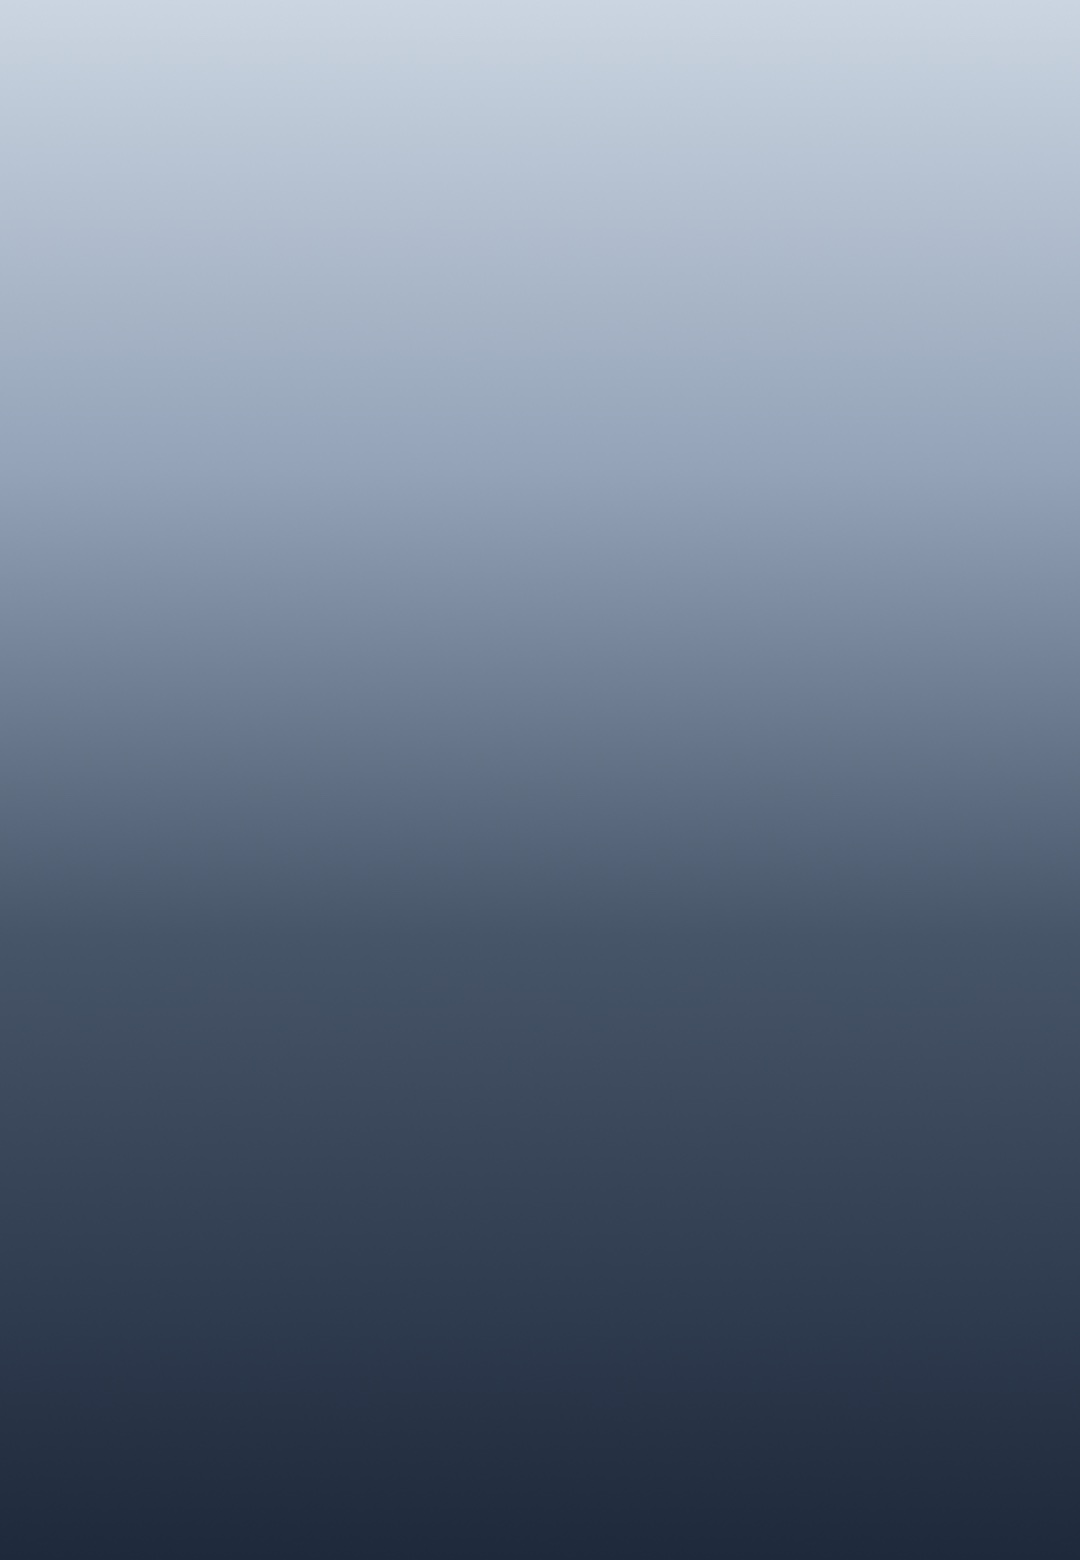
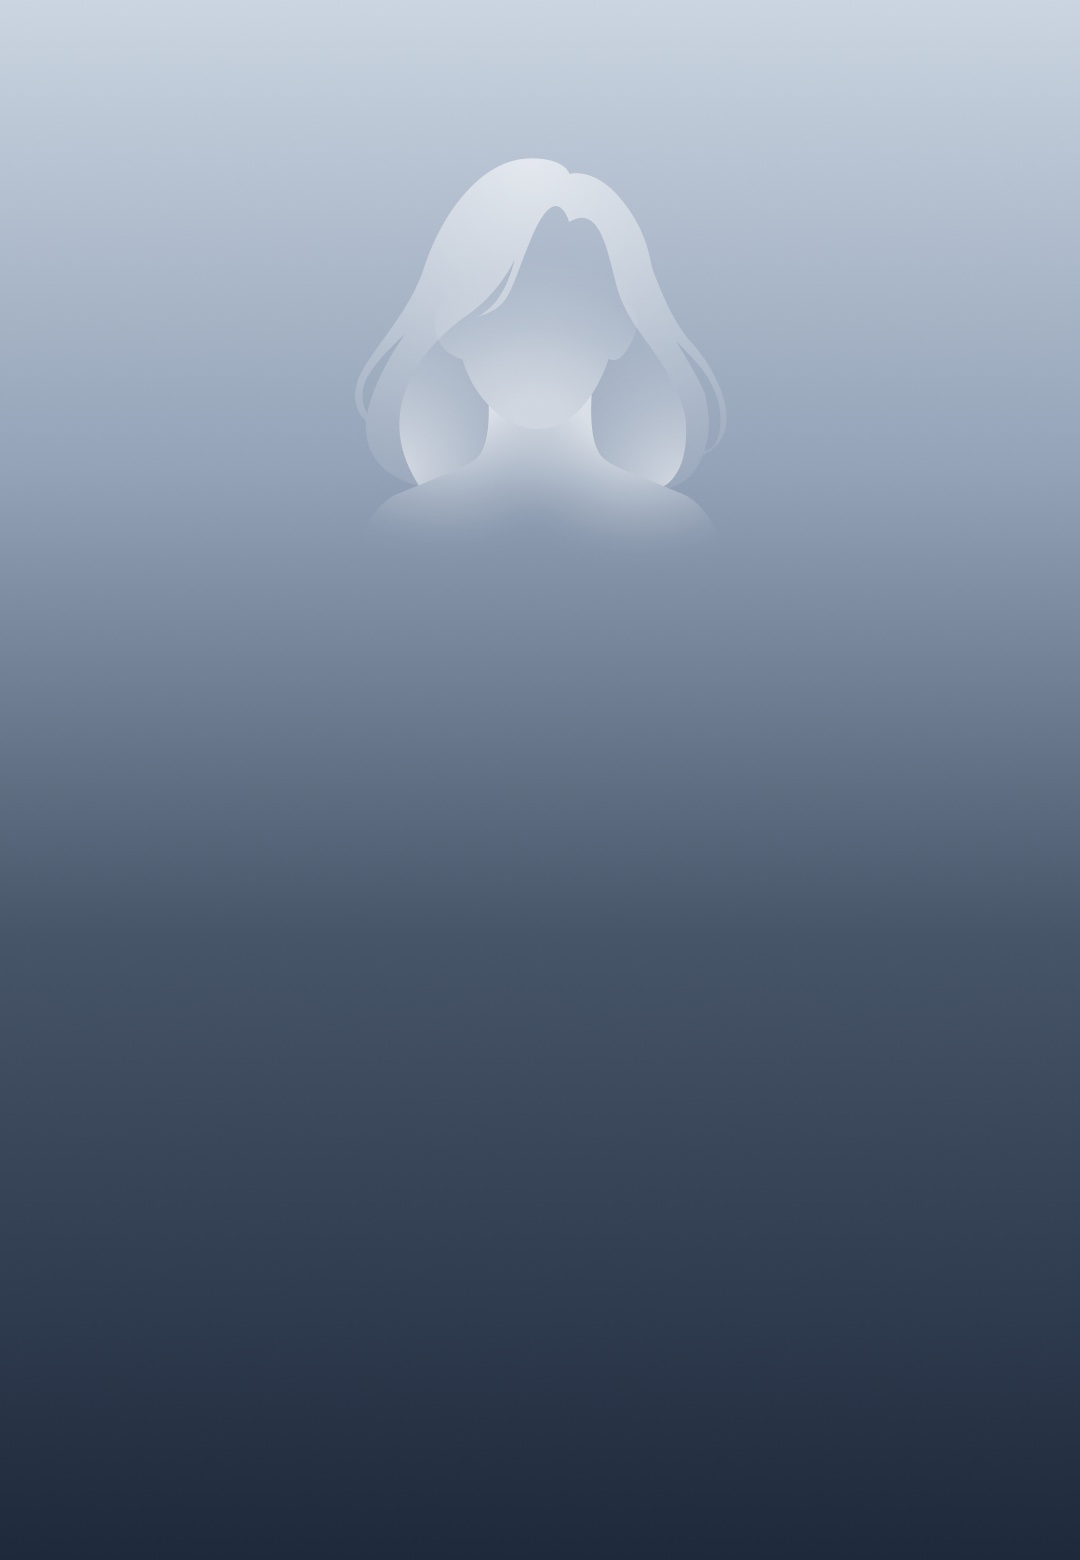
No-photo: one silhouette, baked into the requested photo
- sh-user-images Photo requested is the flattened Full placeholder with the
  silhouette included (requested-*.jpg re-exported).
- sh-overlay No photo / Photo requested now carries only the title and
  button; the empty 160 icon slot is gone.
- Blueprints and the update entry follow.

Changed region(s): [[0.3667, 0.0923, 0.6417, 0.3385]]

diff --git a/components/profile-card/sh-avatar-placeholder/sh-avatar-placeholder.md b/components/profile-card/sh-avatar-placeholder/sh-avatar-placeholder.md
@@ -20,7 +20,7 @@ Profile card (migration, not yet core) · 6 variants · [Open in Figma](https://
 
 ### Gender=Female / Male, Aspect Ratio=Full
 
-**Purpose:** the full photo slot (profile card, FPV photo). The silhouette square sits near the top, where the sh-overlay icon slot is, leaving room below for the title and button.
+**Purpose:** the full photo slot (profile card, FPV photo). The silhouette square sits near the top, leaving room below for the sh-overlay title and button.
 
 ## Properties
 
@@ -30,7 +30,7 @@ Profile card (migration, not yet core) · 6 variants · [Open in Figma](https://
 | Aspect Ratio | variant | 1:1, 4:5, Full | 1:1 |
 | Show silhouette | boolean | on, off | on |
 
-Show silhouette off = background only. `sh-overlay` uses that: its icon slot holds the silhouette, so it isn't drawn twice.
+Show silhouette off = background only, for a plain grey slot.
 
 ## Anatomy
 
@@ -38,7 +38,7 @@ Editable in Figma: the background and the silhouette are separate layers, so eit
 
 - root: column, clips content, content centred horizontally
   - 1:1 and 4:5: content centred vertically, no padding
-  - Full: content at the top, padding top `sh-space/40` (the same spot as the sh-overlay icon slot)
+  - Full: content at the top, padding top `sh-space/40`; the sh-overlay title starts just under the square
   - **Background**: rectangle, absolute, stretches to the frame. Linear gradient, top to bottom:
     - 1:1 and 4:5: `neutral/300` → `neutral/400`
     - Full: `neutral/300` → `neutral/400` (30%) → `neutral/600` (60%) → `neutral/800`, so white overlay text stays readable
@@ -51,7 +51,7 @@ Editable in Figma: the background and the silhouette are separate layers, so eit
 
 ## Code
 
-Code uses the flattened images in `assets/` (one JPG per Gender × Aspect Ratio, @3x), not the layers. Export them again from Figma whenever the background or the silhouette changes. `sh-user-images` (Photo requested) uses Full with Show silhouette off (background only); the overlay draws the silhouette on top.
+Code uses the flattened images in `assets/` (one JPG per Gender × Aspect Ratio, @3x), not the layers. Export them again from Figma whenever the background or the silhouette changes. `sh-user-images` (Photo requested) is the Full image, silhouette included; the overlay adds only the title and button.
 
 ## Size
 

diff --git a/components/profile-card/sh-user-images/sh-user-images.md b/components/profile-card/sh-user-images/sh-user-images.md
@@ -230,19 +230,19 @@ Profile card (migration, not yet core) · 58 variants · [Open in Figma](https:/
 
 ### Gender=Female requested, Style=Normal
 
-**Purpose:** No photo or Photo requested: muted grey background (flattened from sh-avatar-placeholder Full, Show silhouette off); the sh-overlay icon slot draws the female silhouette on top. Not a real member photo.
+**Purpose:** No photo or Photo requested: muted grey female silhouette (flattened from sh-avatar-placeholder Full); the sh-overlay title and button sit below it. Not a real member photo.
 
 ### Gender=Female requested, Style=Blur
 
-**Purpose:** No photo or Photo requested: muted grey background (flattened from sh-avatar-placeholder Full, Show silhouette off); the sh-overlay icon slot draws the female silhouette on top, blurred behind a lock or overlay. Not a real member photo.
+**Purpose:** No photo or Photo requested: muted grey female silhouette (flattened from sh-avatar-placeholder Full); the sh-overlay title and button sit below it, blurred behind a lock or overlay. Not a real member photo.
 
 ### Gender=Male requested, Style=Normal
 
-**Purpose:** No photo or Photo requested: muted grey background (flattened from sh-avatar-placeholder Full, Show silhouette off); the sh-overlay icon slot draws the male silhouette on top. Not a real member photo.
+**Purpose:** No photo or Photo requested: muted grey male silhouette (flattened from sh-avatar-placeholder Full); the sh-overlay title and button sit below it. Not a real member photo.
 
 ### Gender=Male requested, Style=Blur
 
-**Purpose:** No photo or Photo requested: muted grey background (flattened from sh-avatar-placeholder Full, Show silhouette off); the sh-overlay icon slot draws the male silhouette on top, blurred behind a lock or overlay. Not a real member photo.
+**Purpose:** No photo or Photo requested: muted grey male silhouette (flattened from sh-avatar-placeholder Full); the sh-overlay title and button sit below it, blurred behind a lock or overlay. Not a real member photo.
 
 ## Properties
 

diff --git a/updates/2026-10-29-no-photo-placeholder-is-muted-grey-and-editable.md b/updates/2026-10-29-no-photo-placeholder-is-muted-grey-and-editable.md
@@ -31,12 +31,21 @@
   - The Avatar swap offers the silhouette Female · Male. Padding top is `sh-space/40` on all four variants.
 - **`sh-user-images`** Photo requested: background only (Full, Show silhouette off), so the silhouette is never drawn twice.
 
+## Fix: one silhouette, from the photo
+- The silhouette lives in the photo:
+  - `sh-user-images` Photo requested = the Full placeholder flattened, silhouette included.
+  - The placeholder behind Photo full keeps Show silhouette on.
+- `sh-overlay` No photo / Photo requested (Photo and Photo full) carries only the title and button:
+  - The 160 icon slot is removed, along with the now-unused Avatar swap property.
+  - The title starts at 212, just under the silhouette.
+- Profile-card "Photo request sent" in the No Photo Case showed a member photo behind the overlay; it's back on the grey requested image.
+
 ## Why
 The pink felt off-brand. Keeping the background and the silhouette as separate layers means either can change later without redrawing the other, and designs use the editable component rather than a pasted image.
 
 ## Who needs to do something
 - **Designers:** pull the library. Use `sh-avatar-placeholder` (not an image) wherever a member has no photo; pick Full for a full photo slot with an overlay.
-- **Android / iOS / Web:** replace the placeholder images with the new grey ones and add the two `*-full` assets. `ShAvatarPlaceholderAspect` / `.full` / `--full` is new. `requested-*.jpg` is now background only: draw the silhouette from the overlay (the `sh-avatar-placeholder` 1:1 art without background would be a separate asset; ask if you need it).
+- **Android / iOS / Web:** replace the placeholder images with the new grey ones and add the two `*-full` assets. `ShAvatarPlaceholderAspect` / `.full` / `--full` is new. `requested-*.jpg` includes the silhouette; the overlay draws only the title and button on top.
 
 ## Checks
 - [x] Renders checked: all 6 variants, sh-overlay Photo full No photo, a profile card No photo, FPV B · Photos
